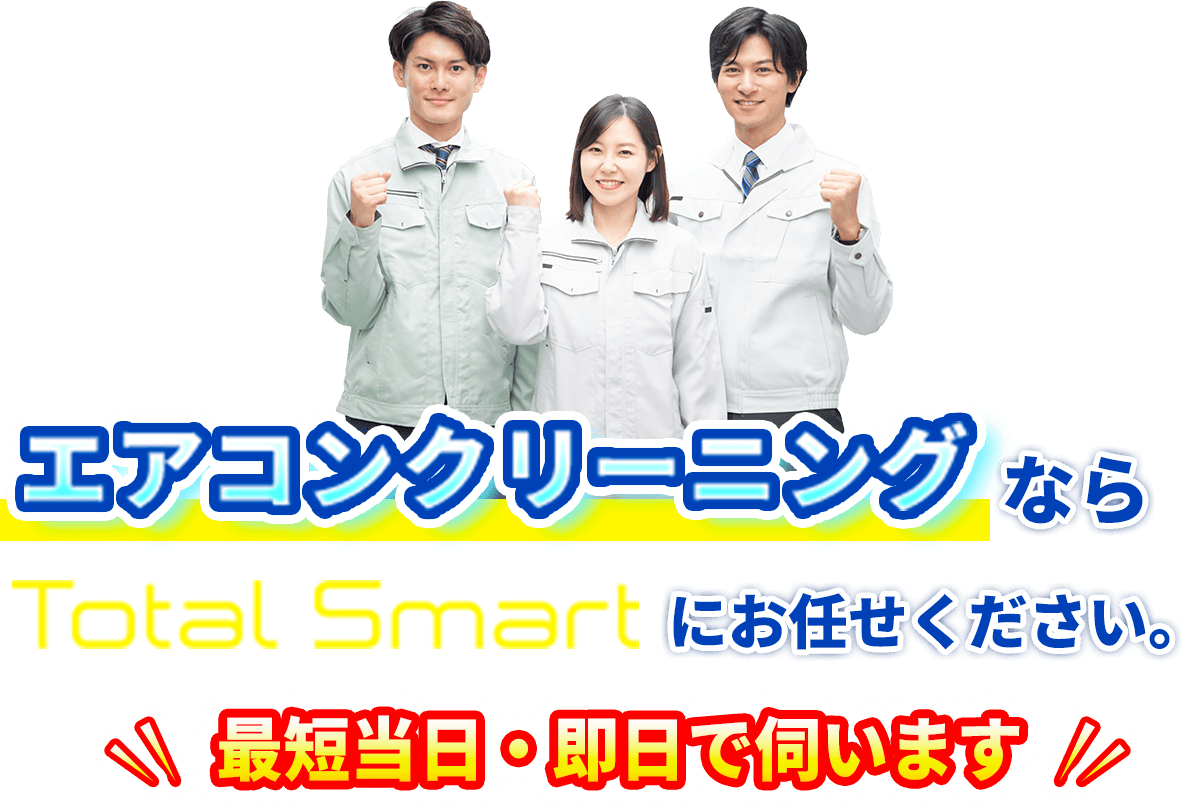
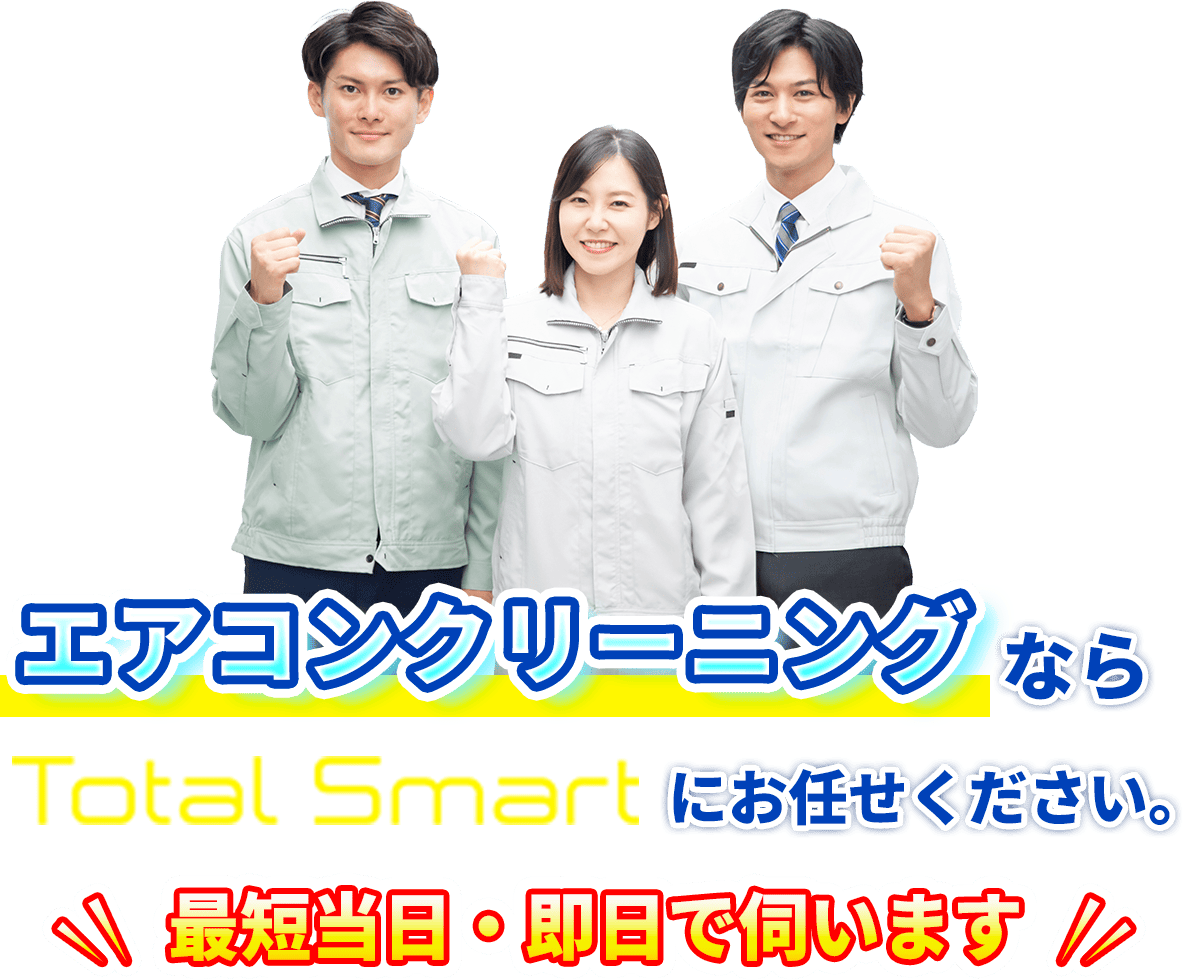
SPの時の調整

diff --git a/lightning/customcss/reset.css b/lightning/customcss/reset.css
@@ -1,182 +1,1 @@
-* {
-  box-sizing: border-box;
-}
-
-::before,
-::after {
-  pointer-events: none;
-}
-
-html,
-body,
-div,
-span,
-applet,
-object,
-iframe,
-h1,
-h2,
-h3,
-h4,
-h5,
-h6,
-p,
-blockquote,
-pre,
-a,
-abbr,
-acronym,
-address,
-big,
-cite,
-code,
-del,
-dfn,
-em,
-img,
-ins,
-kbd,
-q,
-s,
-samp,
-small,
-strike,
-strong,
-sub,
-sup,
-tt,
-var,
-b,
-u,
-i,
-center,
-dl,
-dt,
-dd,
-ol,
-ul,
-li,
-fieldset,
-form,
-label,
-legend,
-table,
-caption,
-tbody,
-tfoot,
-thead,
-tr,
-th,
-td,
-article,
-aside,
-canvas,
-details,
-embed,
-figure,
-figcaption,
-footer,
-header,
-hgroup,
-menu,
-nav,
-output,
-ruby,
-section,
-summary,
-time,
-mark,
-audio,
-video {
-  padding: 0;
-  margin: 0;
-  font: inherit;
-  font-size: 100%;
-  vertical-align: baseline;
-  border: 0;
-}
-
-article,
-aside,
-details,
-figcaption,
-figure,
-footer,
-header,
-hgroup,
-menu,
-nav,
-section {
-  display: block;
-}
-
-html {
-  box-sizing: border-box;
-  overflow-y: scroll;
-  font-size: 62.5%;
-  text-size-adjust: 100%;
-}
-
-body {
-  font-kerning: none;
-  line-height: 1;
-  word-break: normal;
-  word-wrap: break-word;
-  overflow-wrap: break-word;
-  -moz-osx-font-smoothing: grayscale;
-  -webkit-font-smoothing: antialiased;
-  -webkit-tap-highlight-color: transparent;
-}
-
-ol,
-ul {
-  list-style: none;
-}
-
-label {
-  cursor: pointer;
-}
-
-blockquote,
-q {
-  quotes: none;
-}
-
-table {
-  border-spacing: 0;
-  border-collapse: collapse;
-}
-
-input,
-textarea,
-select,
-button {
-  font-family: inherit;
-  font-size: inherit;
-  font-weight: inherit;
-}
-
-input[type=submit],
-input[type=button],
-button {
-  appearance: none;
-}
-
-input::-ms-clear {
-  visibility: hidden;
-}
-
-input::-ms-reveal {
-  visibility: hidden;
-}
-
-textarea {
-  resize: vertical;
-}
-
-button {
-  padding: 0;
-  margin: 0;
-  cursor: pointer;
-  user-select: none;
-}
+*{box-sizing:border-box}::before,::after{pointer-events:none}html,body,div,span,applet,object,iframe,h1,h2,h3,h4,h5,h6,p,blockquote,pre,a,abbr,acronym,address,big,cite,code,del,dfn,em,img,ins,kbd,q,s,samp,small,strike,strong,sub,sup,tt,var,b,u,i,center,dl,dt,dd,ol,ul,li,fieldset,form,label,legend,table,caption,tbody,tfoot,thead,tr,th,td,article,aside,canvas,details,embed,figure,figcaption,footer,header,hgroup,menu,nav,output,ruby,section,summary,time,mark,audio,video{padding:0;margin:0;font:inherit;font-size:100%;vertical-align:baseline;border:0}article,aside,details,figcaption,figure,footer,header,hgroup,menu,nav,section{display:block}html{box-sizing:border-box;overflow-y:scroll;font-size:62.5%;text-size-adjust:100%}body{font-kerning:none;line-height:1;word-break:normal;word-wrap:break-word;overflow-wrap:break-word;-moz-osx-font-smoothing:grayscale;-webkit-font-smoothing:antialiased;-webkit-tap-highlight-color:rgba(0,0,0,0)}ol,ul{list-style:none}label{cursor:pointer}blockquote,q{quotes:none}table{border-spacing:0;border-collapse:collapse}input,textarea,select,button{font-family:inherit;font-size:inherit;font-weight:inherit}input[type=submit],input[type=button],button{appearance:none}input::-ms-clear{visibility:hidden}input::-ms-reveal{visibility:hidden}textarea{resize:vertical}button{padding:0;margin:0;cursor:pointer;user-select:none}

diff --git a/lightning/customcss/style.css b/lightning/customcss/style.css
@@ -455,16 +455,16 @@ body {
 
 main {
   display: block;
-  padding-top: 180px;
+  padding-top: 150px;
 }
 @media (width <= 1180px) {
   main {
-    padding-top: 280px;
+    padding-top: 250px;
   }
 }
 @media (max-width: 767px) {
   main {
-    padding-top: 45vw;
+    padding-top: 43%;
   }
 }
 @media (min-width: 768px) and (max-width: 769px) and (orientation: portrait) {
@@ -498,7 +498,7 @@ main {
   flex-wrap: wrap;
   align-items: center;
   justify-content: space-between;
-  padding: 40px min(4vw, 25px);
+  padding: 25px min(4vw, 25px);
 }
 .header--btns {
   display: flex;
@@ -809,6 +809,11 @@ main {
   .sign--list {
     font-size: var(--fz18);
   }
+  .sign--list::before {
+    bottom: -100px;
+    width: 160px;
+    height: 140px;
+  }
 }
 @media (width <= 1280px) {
   .sign {
@@ -816,6 +821,9 @@ main {
   }
 }
 @media (max-width: 767px) {
+  .sign {
+    padding: 80px 0 100px;
+  }
   .sign h2 {
     margin-bottom: 40px;
     font-size: var(--fz30);

diff --git a/lightning/scss/_base.scss b/lightning/scss/_base.scss
@@ -52,14 +52,14 @@ body {
 
 main {
   display: block;
-  padding-top: 180px;
+  padding-top: 150px;
 
   @media (width <= 1180px) {
-    padding-top: 280px;
+    padding-top: 250px;
   }
 
   @include max-mq {
-    padding-top: 45vw;
+    padding-top: 43%;
   }
 
 
@@ -98,7 +98,7 @@ main {
     flex-wrap: wrap;
     align-items: center;
     justify-content: space-between;
-    padding: 40px min(4vw, 25px);
+    padding: 25px min(4vw, 25px);
   }
 
   // .header--btns

diff --git a/lightning/scss/pages/_top.scss b/lightning/scss/pages/_top.scss
@@ -185,6 +185,12 @@
 
     @include max-mq {
       font-size: var(--fz18);
+
+      &::before {
+        bottom: -100px;
+        width: 160px;
+        height: 140px;
+      }
     }
   }
 
@@ -193,6 +199,8 @@
   }
 
   @include max-mq {
+    padding: 80px 0 100px;
+
     h2 {
       margin-bottom: 40px;
       font-size: var(--fz30);
